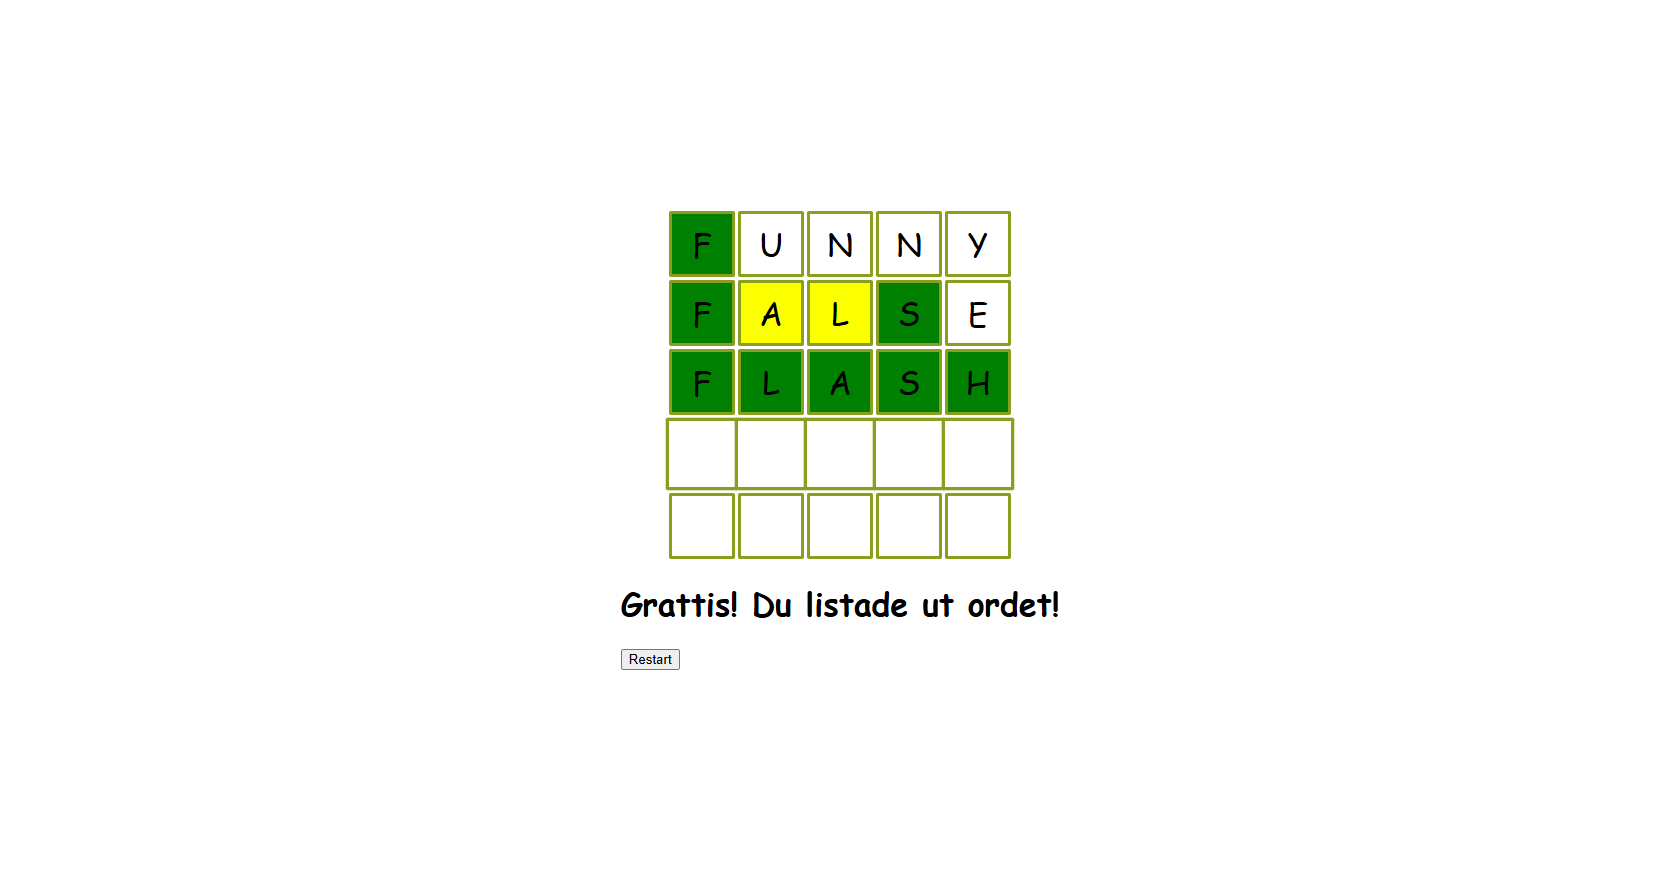
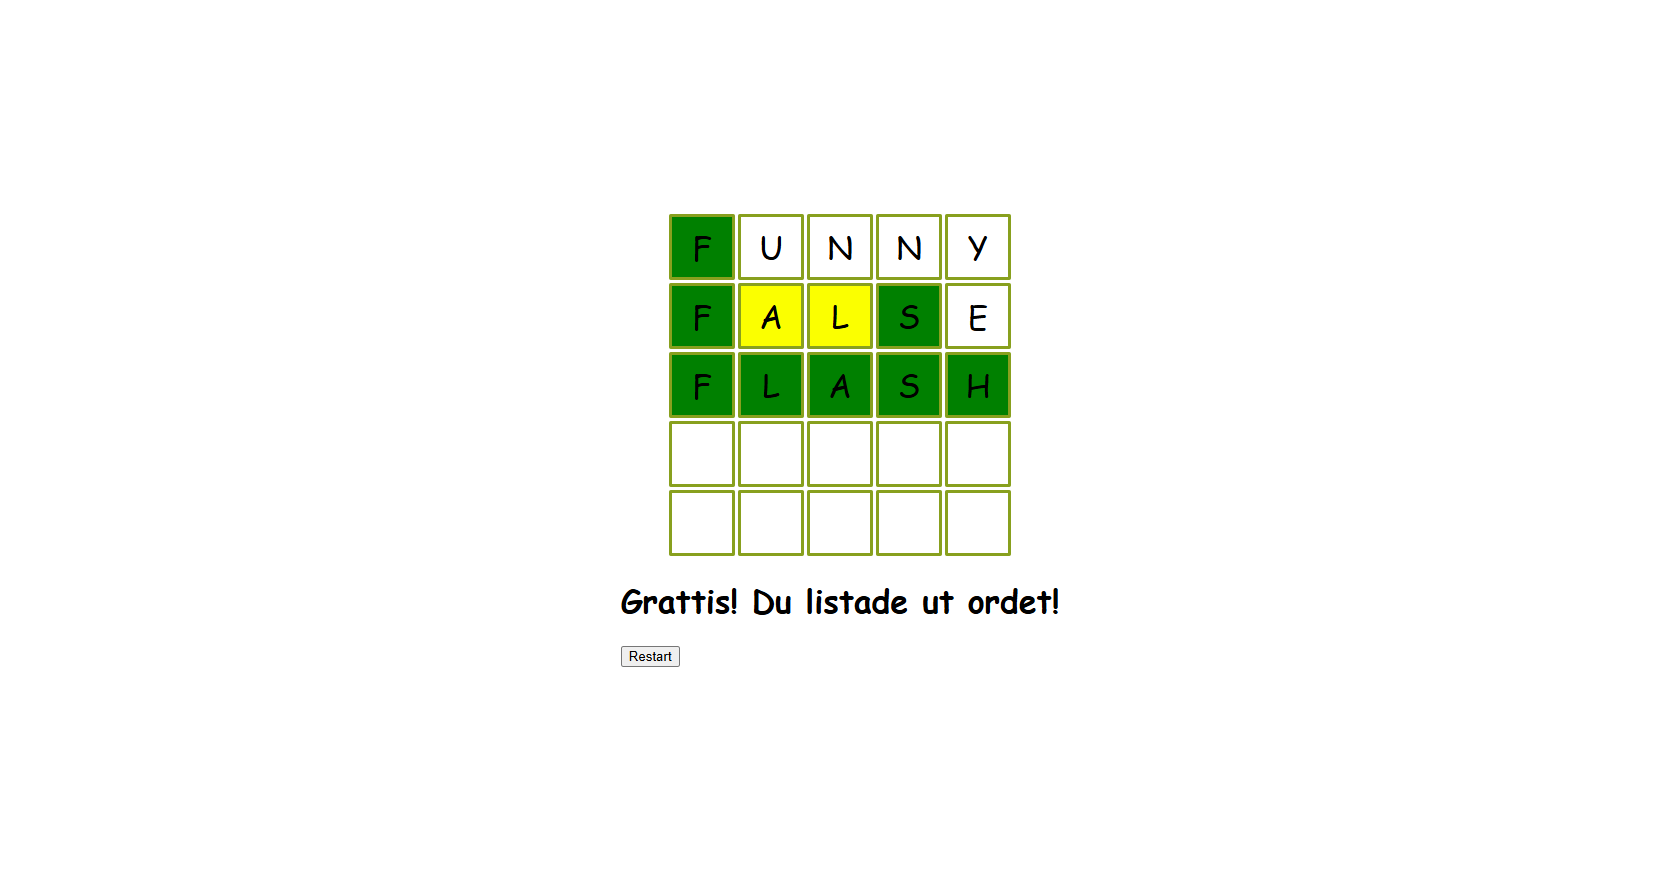
Switched screen

diff --git a/worlde-react/src/App.tsx b/worlde-react/src/App.tsx
@@ -13,7 +13,7 @@ function App() {
   const [ok, setOk] = useState<boolean>(true);
 
   const getRandomWord = async () => {
-    const response = await fetch(
+    /*const response = await fetch(
       "https://random-word-api.herokuapp.com/word?number=1&diff=1&length=5",
     );
     if (!response.ok) {
@@ -21,6 +21,8 @@ function App() {
     }
     const data = await response.json();
     setWordle(data[0].toUpperCase().split(""));
+    */
+    setWordle("FLASH".split(""));
     setState("game");
   };
 
@@ -64,14 +66,15 @@ function App() {
   };
 
   const GameOver = () => {
+    setNum(-1);
     const restart = () => {
       setState("start");
       setWordle([]);
       setGuess("");
+      setNum(0);
       setCorrect({});
       setSemiCorrect({});
       setGuesses({});
-      setNum(0);
       setOk(true);
     };
 
